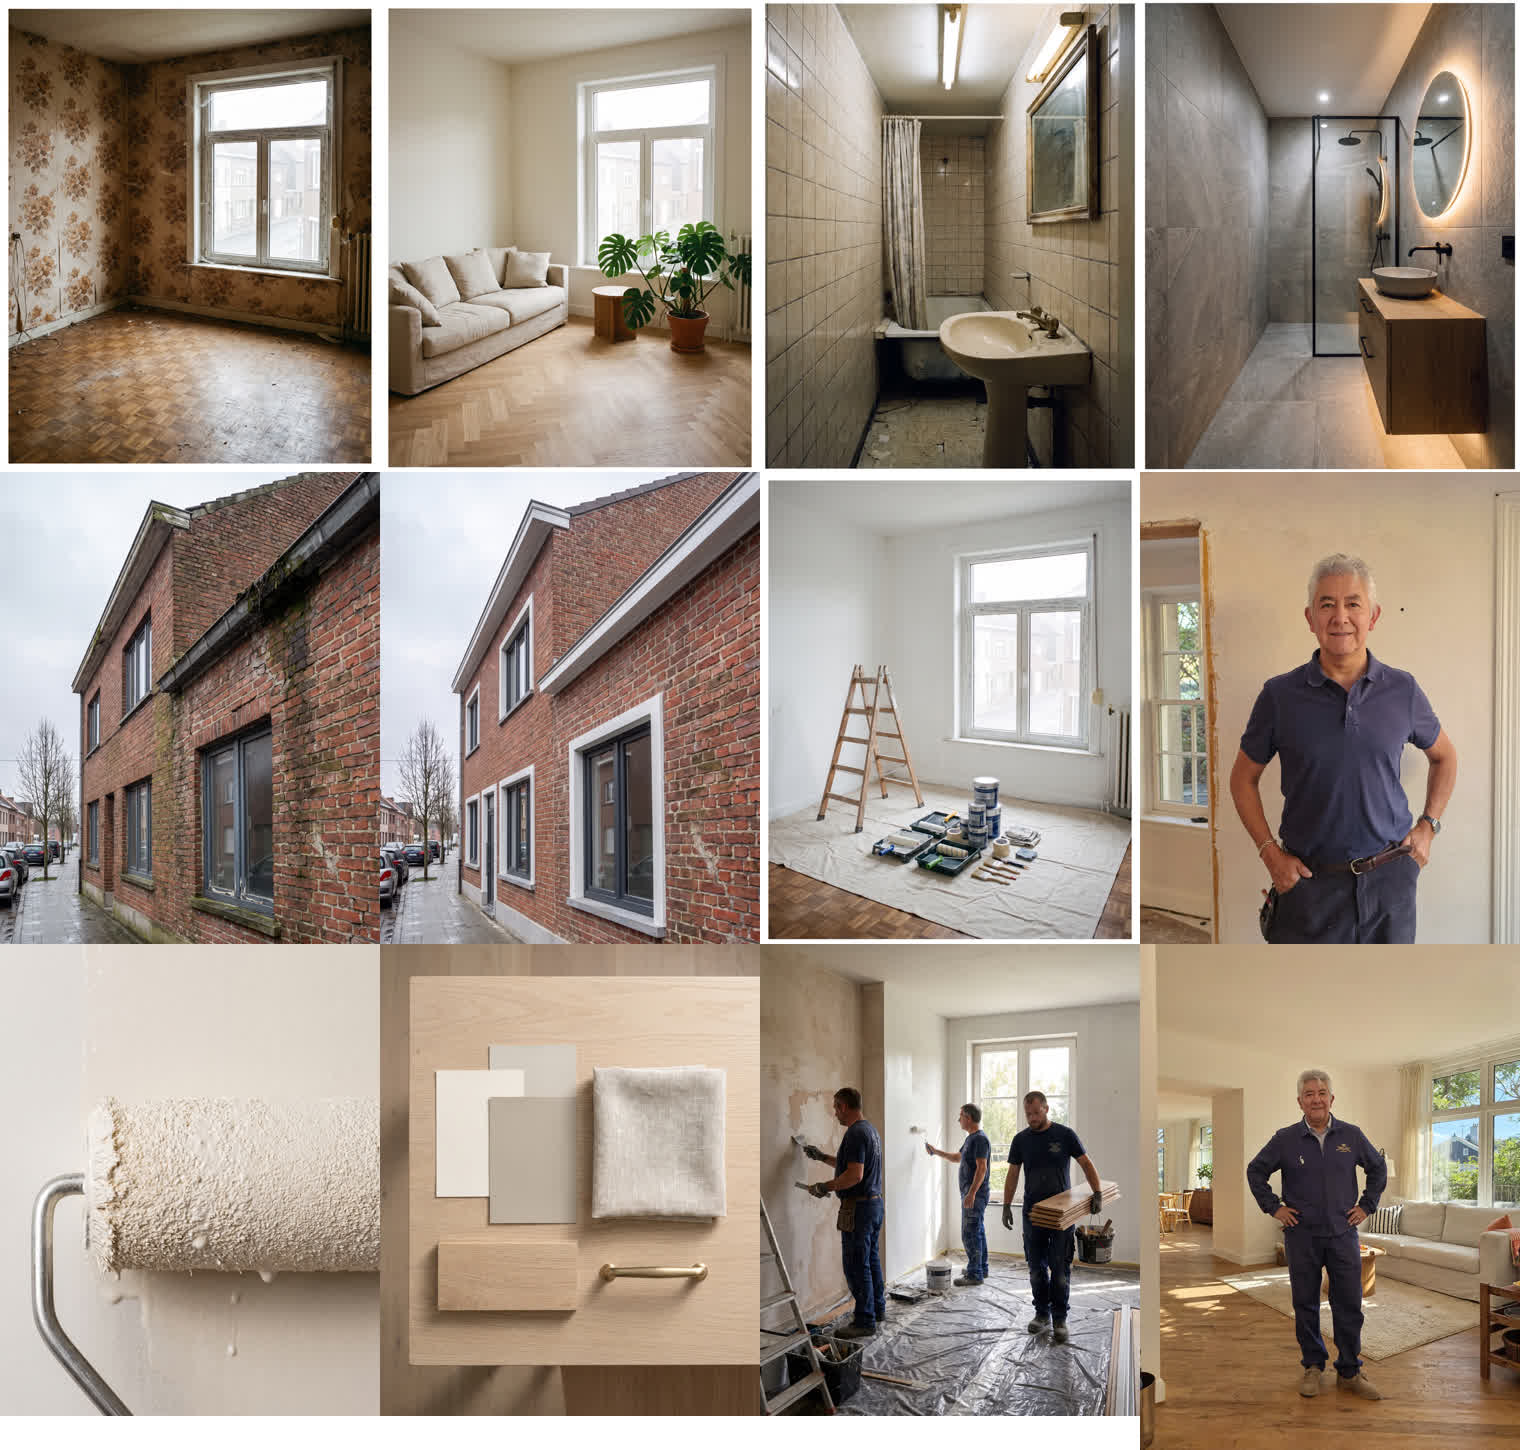
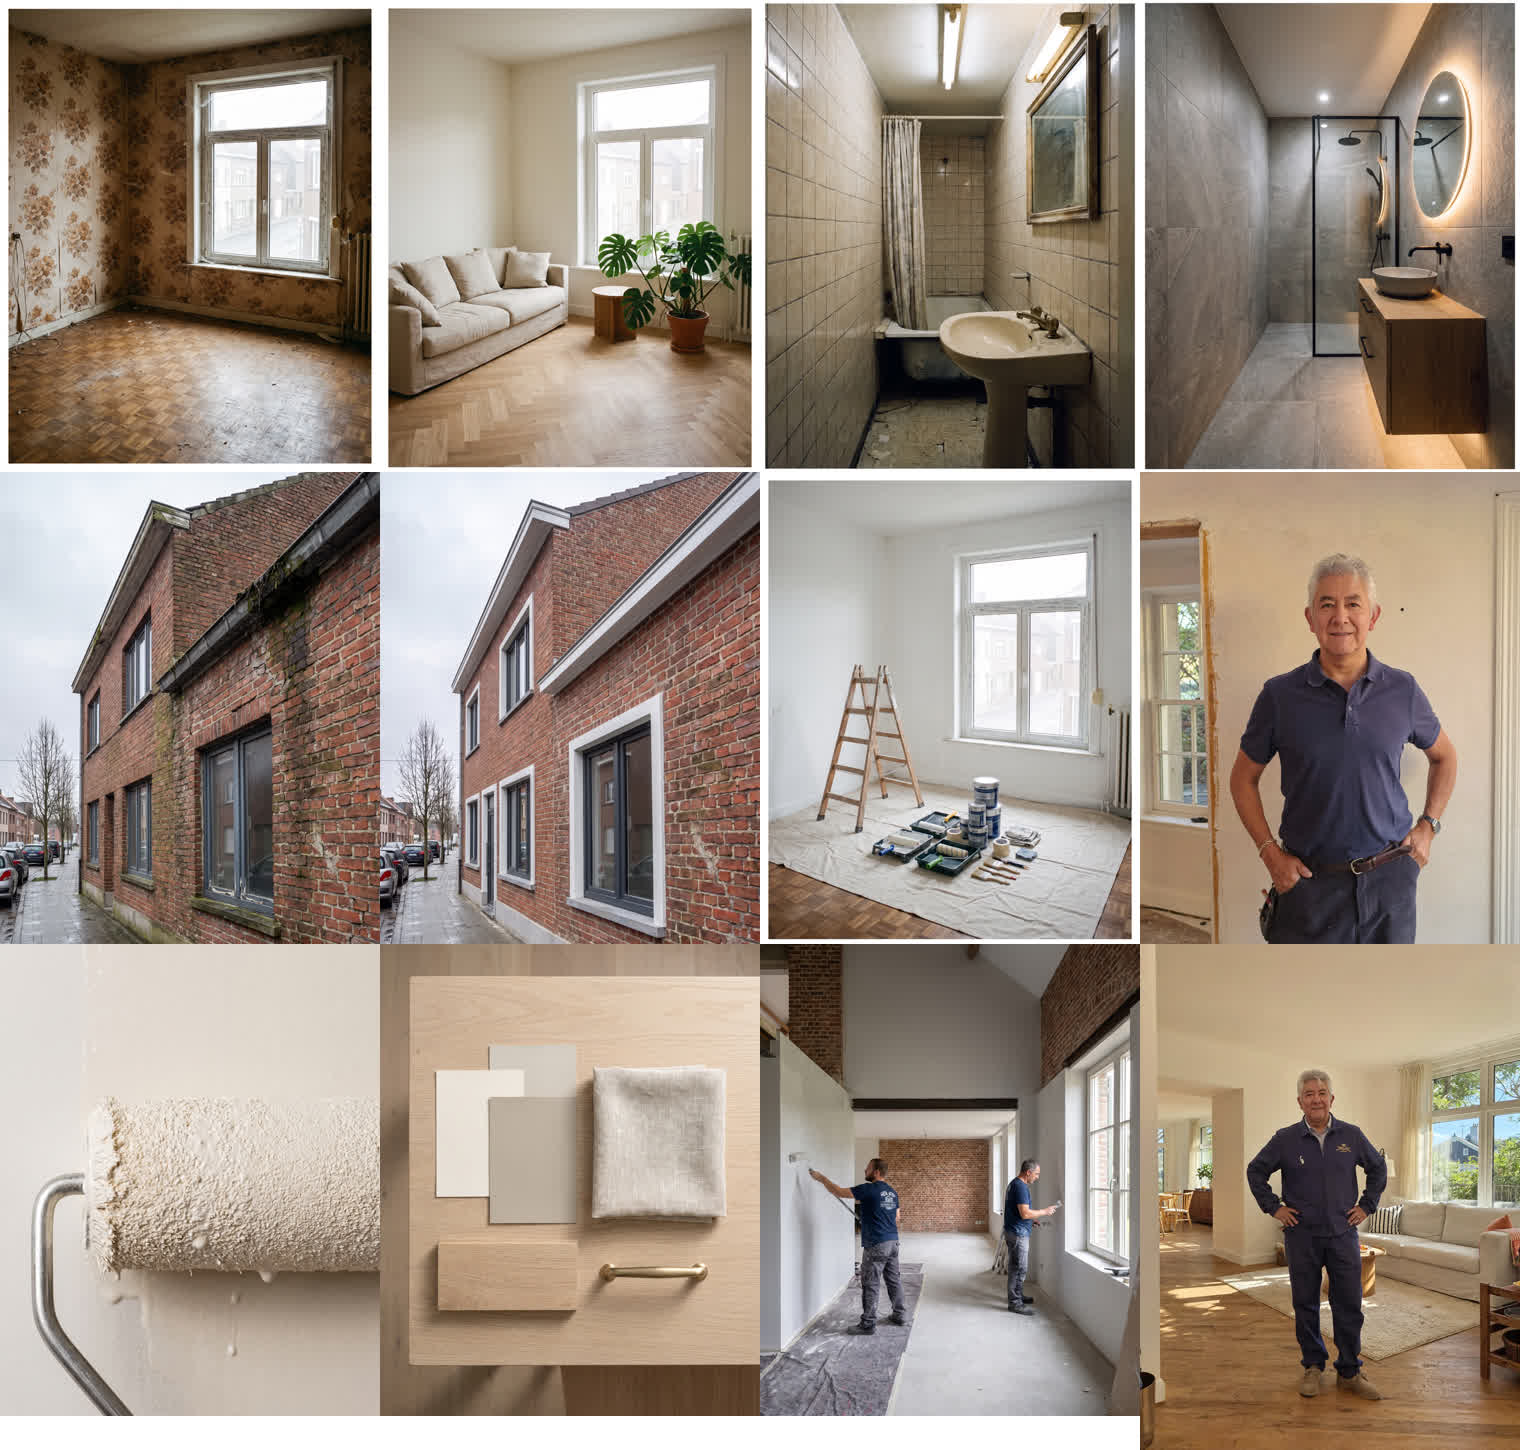
INSTAGRAM: spec des 3 reels (format 9:16, 7s, balayage, 2 niveaux de prod) + post 8 regenere (2 ouvriers, grande piece)

Changed region(s): [[0.4947, 0.6517, 0.773, 0.9931]]

diff --git a/INSTAGRAM/02_REELS_SPEC.md b/INSTAGRAM/02_REELS_SPEC.md
@@ -1,0 +1,50 @@
+# Spécification des 3 reels avant/après — Alberto Déco
+
+> Répond à : « comment les reels seront faits, quelle durée, quels effets ? »
+> Version 28/09/2026. À valider par Paolo avant production.
+
+## 1. Format technique
+
+| Élément | Valeur | Pourquoi |
+|---|---|---|
+| Format | **1080 × 1920 (9:16)** | Format natif Reels — plein écran, meilleure portée. Les visuels actuels sont en 4:5 (posts) → à régénérer en 9:16 pour les reels |
+| Durée | **7 s** (6 à 9 s accepté) | Assez court pour être regardé en boucle, assez long pour que l'avant/après soit lisible |
+| Poids | < 50 Mo, H.264 | Limite d'upload Instagram |
+| Son | **aucun son intégré** | On ajoute un **audio tendance** dans l'app Instagram à la publication (ce qui booste la portée) — jamais de musique intégrée au fichier |
+| Boucle | début = fin visuellement proches | Le reel rejoue sans coupure visible |
+
+## 2. Structure du reel (7 s)
+
+| Temps | Image | Mouvement / effet |
+|---|---|---|
+| 0,0 → 2,6 s | **AVANT** | Lent **push-in** (zoom avant 100 % → 108 %), très subtil |
+| 2,6 → 3,0 s | transition | **Balayage** (wipe) : un élément passe devant l'objectif et masque le cadre — c'est le code visuel qu'on a déjà utilisé sur le hero du site |
+| 3,0 → 6,6 s | **APRÈS** | **Push-in** inverse ou léger **dolly** latéral (100 % → 110 %), dans l'autre sens que l'avant pour marquer le changement |
+| 6,6 → 7,0 s | fin | Retour progressif à l'image d'ouverture → boucle naturelle |
+
+**Textes incrustés** (ajoutés en post-prod, jamais par le modèle) :
+- En haut, 3 s : `Wavre · Peinture & préparation des murs` (ville + prestation)
+- En bas, à partir de 3 s : `Devis gratuit sous 24h` (petit, fixe)
+- Style : typo **Fraunces italique** (celle du site), blanc, ombre portée légère. Jamais plus de 6 mots à l'écran.
+
+## 3. Deux niveaux de production
+
+**Niveau 1 — « stills animées » (recommandé pour démarrer) — coût : 0 crédit**
+Les deux images (avant + après) sont animées par un **Ken Burns** (zoom/pan lent) avec ffmpeg, puis assemblées avec la transition de balayage. Résultat : un vrai reel qui bouge, indétectable d'un reel filmé à l'iPhone, et **gratuit**. C'est ce que font énormément de comptes de rénovation.
+
+**Niveau 2 — « image → vidéo IA » (si on veut plus de vie) — coût : ~7,5 crédit par clip de 5 s**
+Kling 3.0 Turbo (`kling3_0_turbo`, 5 s, 720p) anime l'image : peinture qui coule, poussière dans la lumière, rideau qui bouge, ouvrier qui passe au fond. Un clip par image.
+- 3 reels = 6 clips = **~45 crédits** (sur les 561 restants).
+- Option intermédiaire : n'animer que les 3 **« après »** (3 × 7,5 = **22,5 cr**) et garder les « avant » en Ken Burns → meilleur rapport effet/prix.
+
+## 4. Ce dont j'ai besoin pour produire
+
+1. Ton **choix de niveau** (1, 2 ou intermédiaire).
+2. Validation des 3 paires actuelles → je les **régénère en 9:16** pour les reels (**12 crédits** pour les 6 images).
+3. Le **CapCut** n'est même pas nécessaire : je sors le MP4 final monté (ffmpeg) ; toi tu n'ajoutes que l'audio tendance dans Instagram.
+
+## 5. Ce qu'on ne fait pas
+
+- Pas de voix off (aucun son parlé) — les reels rénovation performent mieux en musique + texte.
+- Pas de texte généré par l'IA (souvent illisible et faute d'orthographe) : tout le texte est incrusté proprement après.
+- Pas de musique intégrée (détection de droits + perte du boost « audio tendance »).
